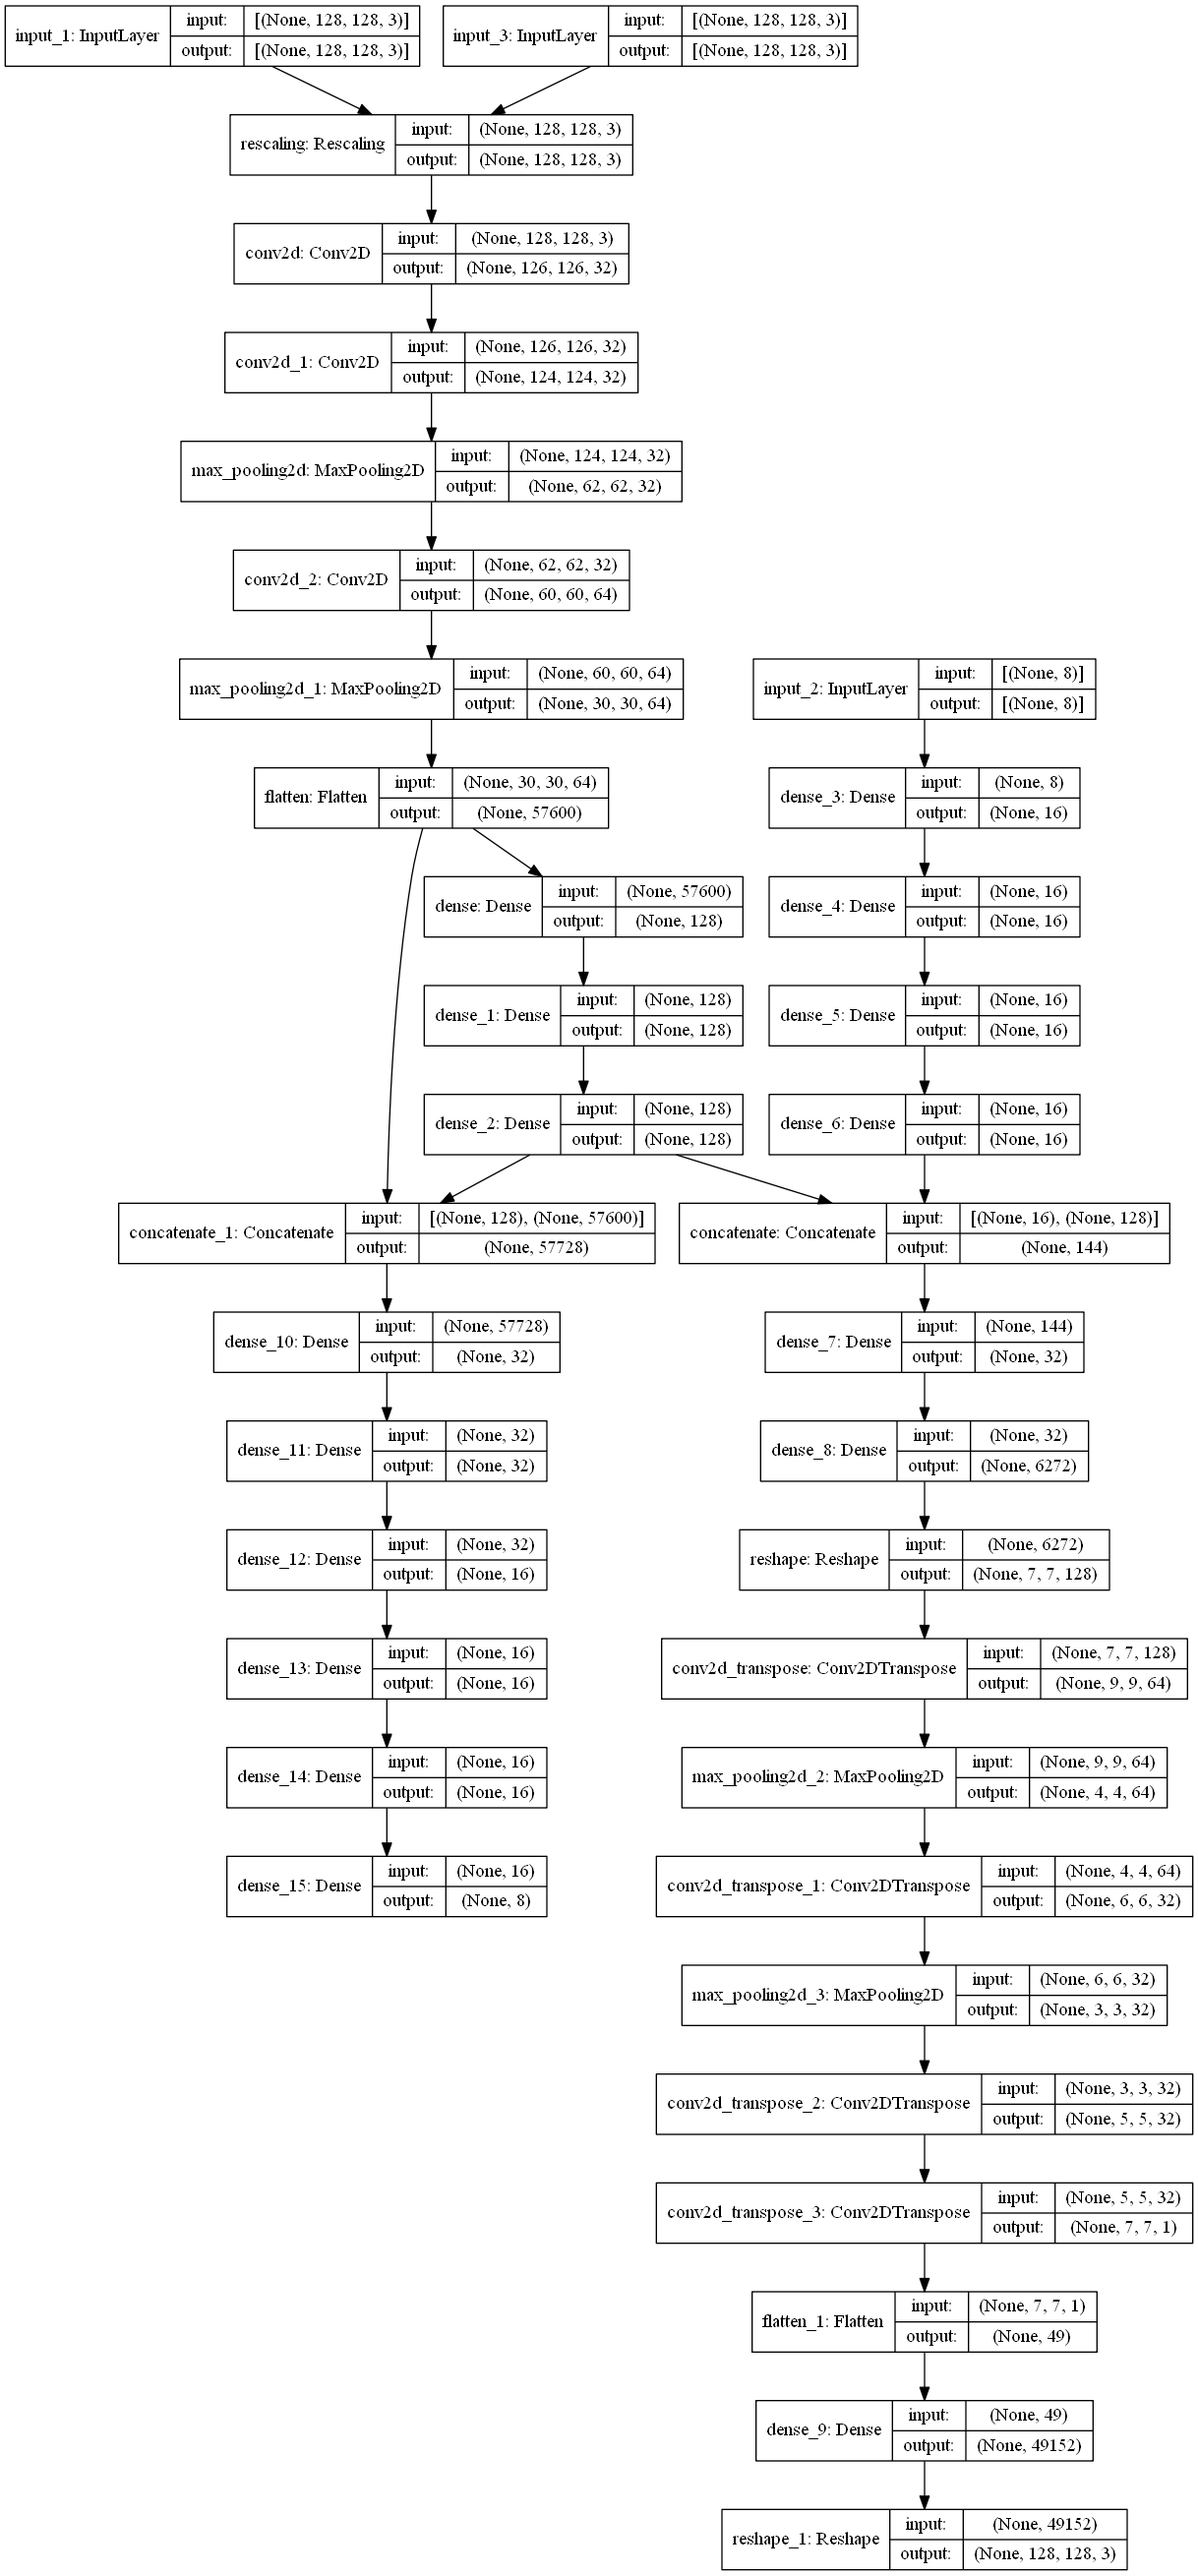
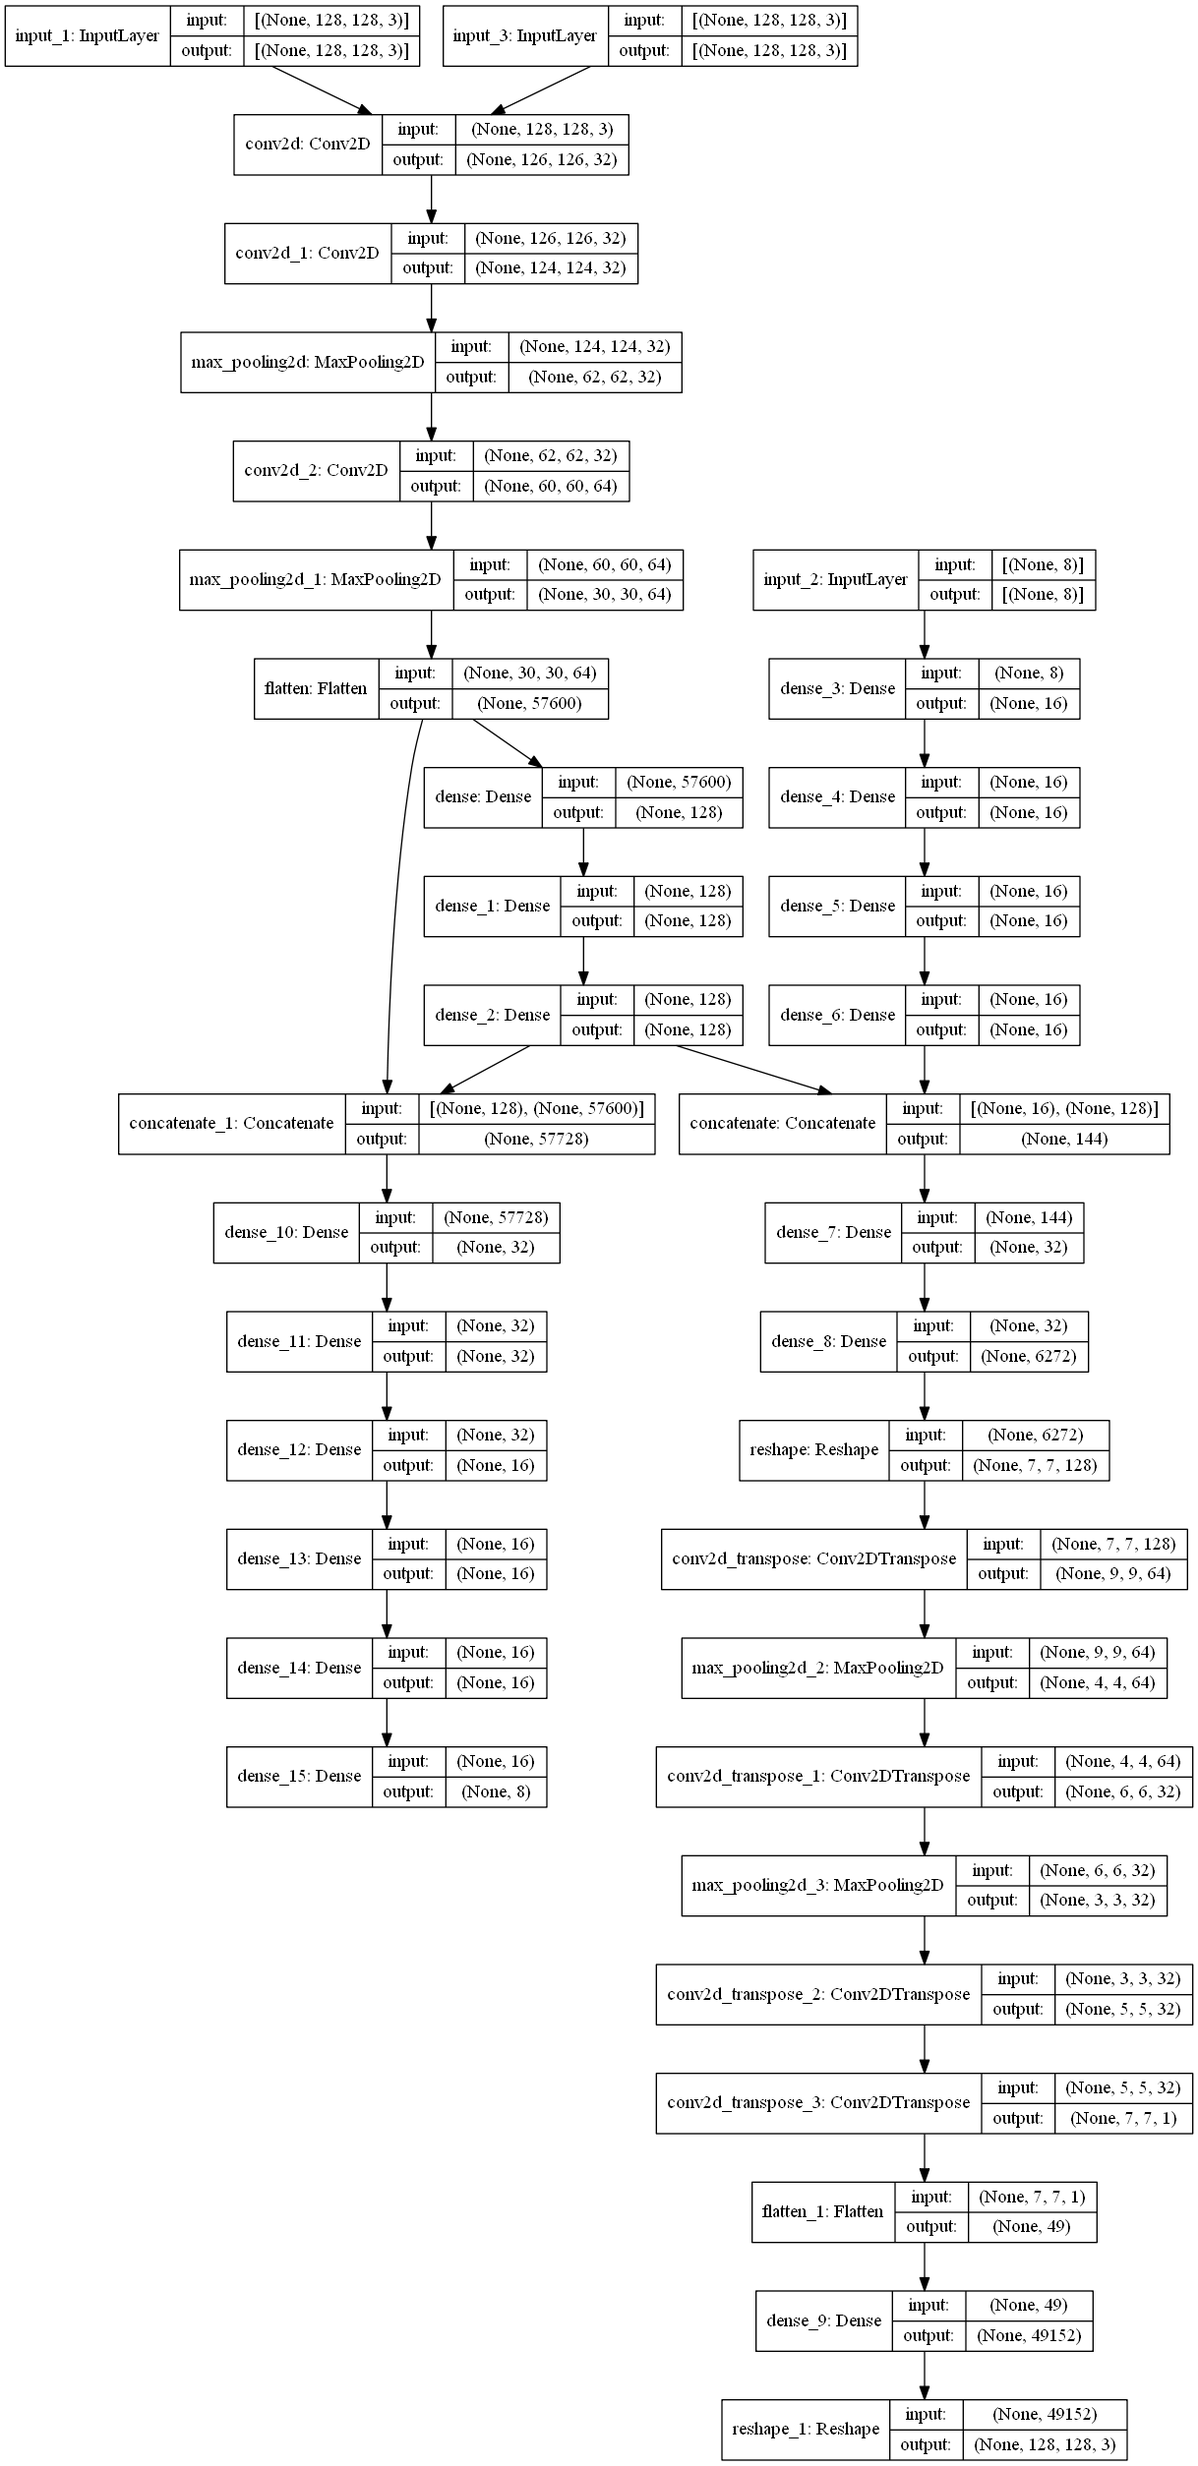
Fixed up issue with input shape, finished load data, started training model

Changed region(s): [[0.0, 0.0, 0.9984, 0.9952]]

diff --git a/images-tools-experiment.py b/images-tools-experiment.py
@@ -14,23 +14,22 @@ import tensorflow as tf
 from tensorflow.keras import layers
 from tensorflow.keras.models import Model
 import numpy as np
+import sys
+import glob
+
+from tensorflow.python.ops.gen_batch_ops import batch
 
 def load_data():
 
-    # Load white image
-    white_image = tf.keras.preprocessing.image.load_img("D:/tree/image-tools/Input_Images/image_0.png")
-    white_image_array = tf.keras.preprocessing.image.img_to_array(white_image)
-
     # Convert images to 0, 1 scale
     # Convert tool parameters to 0, 1 scale (?)
-    tf.keras.utils.image_dataset_from_directory(
-        directory="D:/tree/image-tools/Output_Images",
-        labels=None,
-        color_mode='rgb',
-        seed=1234,
-        image_size=(128,128),
-        validation_split=0.2,
-        subset='training')
+
+    filelist = glob.glob("D:/tree/image-tools/Output_Images/*.png")
+    output_images = np.array([np.array(tf.keras.utils.load_img(fname)) for fname in filelist]).astype("float")
+    output_images *= 1.0/255.
+
+    # Load white image
+    white_image_array = np.ones(output_images.shape)
 
     # Data is (index, r, g, b, width, x_start, y_start, x_end, y_end)
     param_data = np.loadtxt("D:/tree/image-tools/Image_Parameters/params.txt")
@@ -49,33 +48,36 @@ def load_data():
     param_data[:,3] /= maxPenWidth
     param_data[:,4:] /= maxCoordinate
 
-    for i in range(8) : 
-        print(np.max(param_data[:,i]))
+    # Return [input, output]
+    #  inputs = [ tool_param_input, current_image_input, goal_image_input ],
+    return [[param_data, white_image_array, output_images],[output_images,param_data]]
 
-    print(param_data.shape)
-
-    #tf.data.Dataset.from_tensor_slices
-
-    return
+def loss_function(y_true, y_pred) :
+    #true_images, true_tool_params = y_true
+    #predicted_images, predicted_tool_params = y_pred
+    loss_object = tf.keras.losses.MeanSquaredError()
+    return loss_object(y_true[0], y_pred[0]) + loss_object(y_true[1], y_pred[1])
 
 def build_model():
     image_size = 128
     num_tool_parameters = 8
 
-    a0 = layers.Input(shape=(image_size, image_size, 3))
-    b0 = layers.Input(shape=(num_tool_parameters))
-    c0 = layers.Input(shape=(image_size, image_size, 3))
+    # Inputs  : Goal image is A, Tool Params are B, and Current Image is C
+    # Outputs : (B,A) -> C, (A,C) -> B
+    # (Tool Params + Current Image) -> (Goal Image)
+    # (Current Image + Goal Image) -> (Tool Params)
+    current_image_input = layers.Input(shape=(image_size, image_size, 3))
+    tool_param_input = layers.Input(shape=(num_tool_parameters))
+    goal_image_input = layers.Input(shape=(image_size, image_size, 3))
 
-    a1_head = layers.Rescaling(1./255)
-    a10 = layers.Conv2D(32, kernel_size=(3, 3), activation = "relu")
+    a1_head = layers.Conv2D(32, kernel_size=(3, 3), activation = "relu")
     a11 = layers.Conv2D(32, kernel_size=(3, 3), activation="relu")
     a12 = layers.MaxPooling2D(pool_size=(2, 2))
     a13 = layers.Conv2D(64, kernel_size=(3, 3), activation="relu")
     a14 = layers.MaxPooling2D(pool_size=(2, 2))
     a15 = layers.Flatten()
 
-    a1 = a1_head(a0)
-    a1 = a10(a1)
+    a1 = a1_head(current_image_input)
     a1 = a11(a1)
     a1 = a12(a1)
     a1 = a13(a1)
@@ -86,7 +88,7 @@ def build_model():
     a2 = layers.Dense(128)(a2)
     a2 = layers.Dense(128)(a2)
 
-    b1 = layers.Dense(16)(b0)
+    b1 = layers.Dense(16)(tool_param_input)
     b1 = layers.Dense(16)(b1)
     b1 = layers.Dense(16)(b1)
     b1 = layers.Dense(16)(b1)
@@ -106,8 +108,7 @@ def build_model():
     b3 = layers.Reshape((128,128,3))(b3)
 
     # Copy of a1 but taking c0 as input
-    c1 = a1_head(c0)
-    c1 = a10(c1)
+    c1 = a1_head(goal_image_input)
     c1 = a11(c1)
     c1 = a12(c1)
     c1 = a13(c1)
@@ -122,27 +123,49 @@ def build_model():
     c3 = layers.Dense(16)(c3)
     c3 = layers.Dense(num_tool_parameters)(c3)
 
-    model = Model(inputs=[b0, a0, c0], outputs=[b3, c3])
+    model = Model(
+        inputs = [ tool_param_input, current_image_input, goal_image_input ], 
+        outputs = [ b3, c3 ])
     print(model.summary())
 
     tf.keras.utils.plot_model(model,to_file='model.png', show_shapes=True)
 
-    return
+    model.compile(
+        optimizer = tf.keras.optimizers.Adam(learning_rate=1e-3), 
+        loss = loss_function
+        )
 
-def train_model():
+    return model
 
-
-
+def train_model(model, input_data, output_data):
+    model.fit(x=input_data, y=output_data, batch_size = 8, epochs = 500)
     # Save weights
+    model.save("b8_e500")
     return
+
+def load_model() :
+    return tf.keras.models.load_model("b8_e500")
 
 def visualize_results():
     return
 
 if __name__ == "__main__" : 
 
-    load_data()
-    build_model()
-    train_model()
+    input_data, output_data = load_data()
+    model = build_model()
+
+    batch_size = 2
+    whiteImage = np.ones([batch_size,128,128,3])
+    randomToolParams = np.random.rand(batch_size, 8)
+
+    mockData = [randomToolParams, whiteImage, whiteImage]
+
+    # Returned is [goalImage, toolParams]
+    # where the first dimension of both goalImage and toolParams
+    # is the batch dimension.
+    # example : goalImage[0] is the first predicted image
+    val = model.predict(mockData)
+
+    train_model(model, input_data, output_data)
     visualize_results()
     
